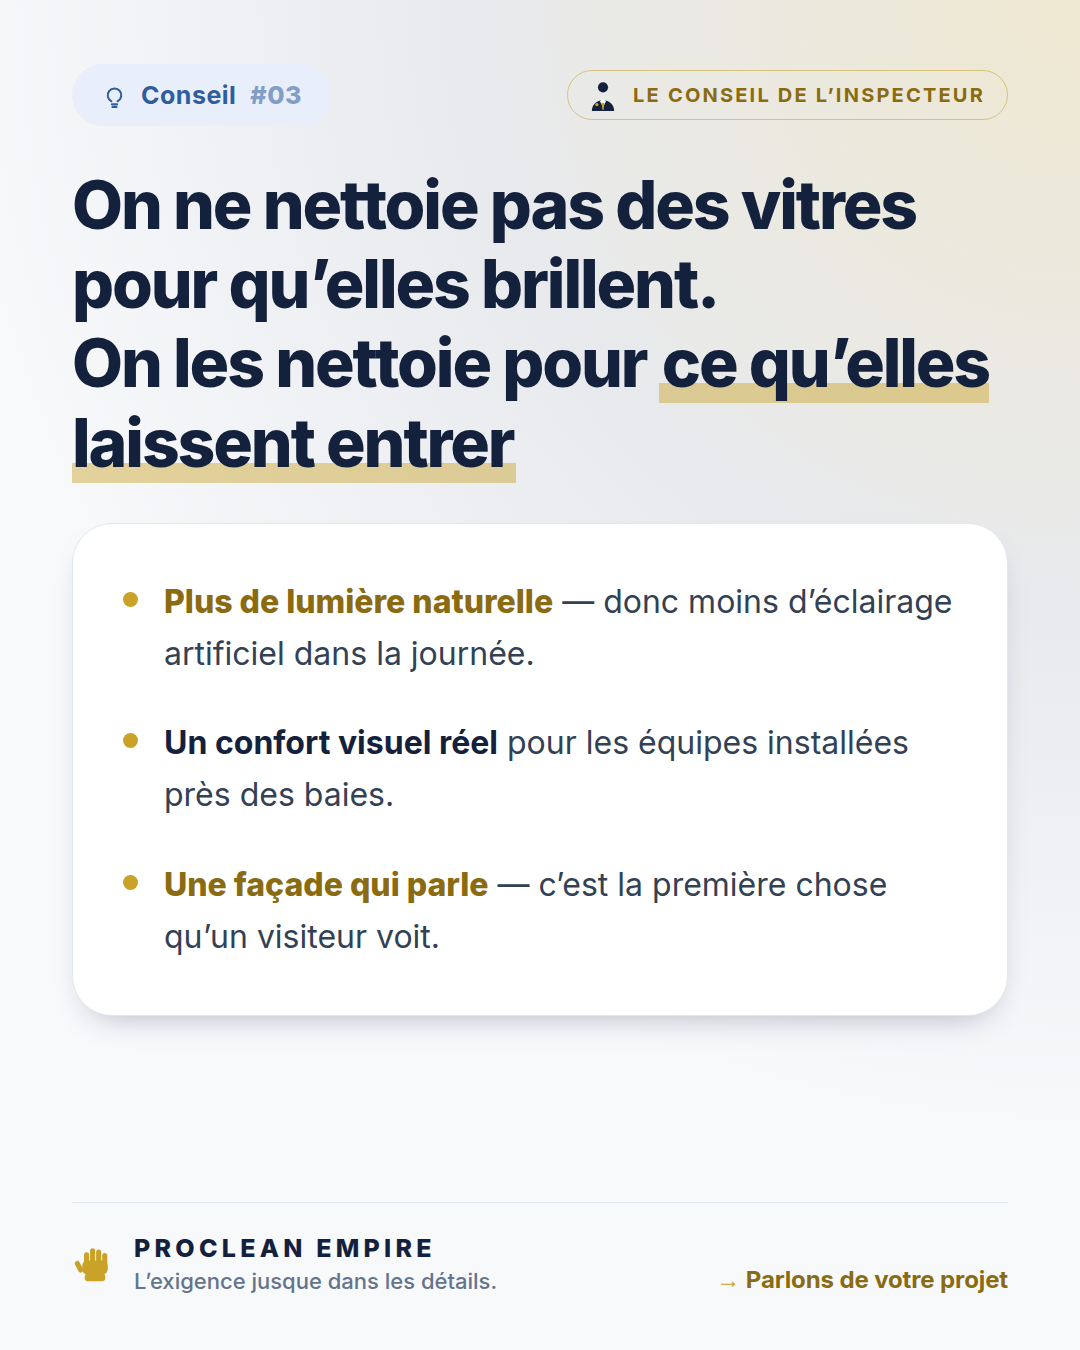
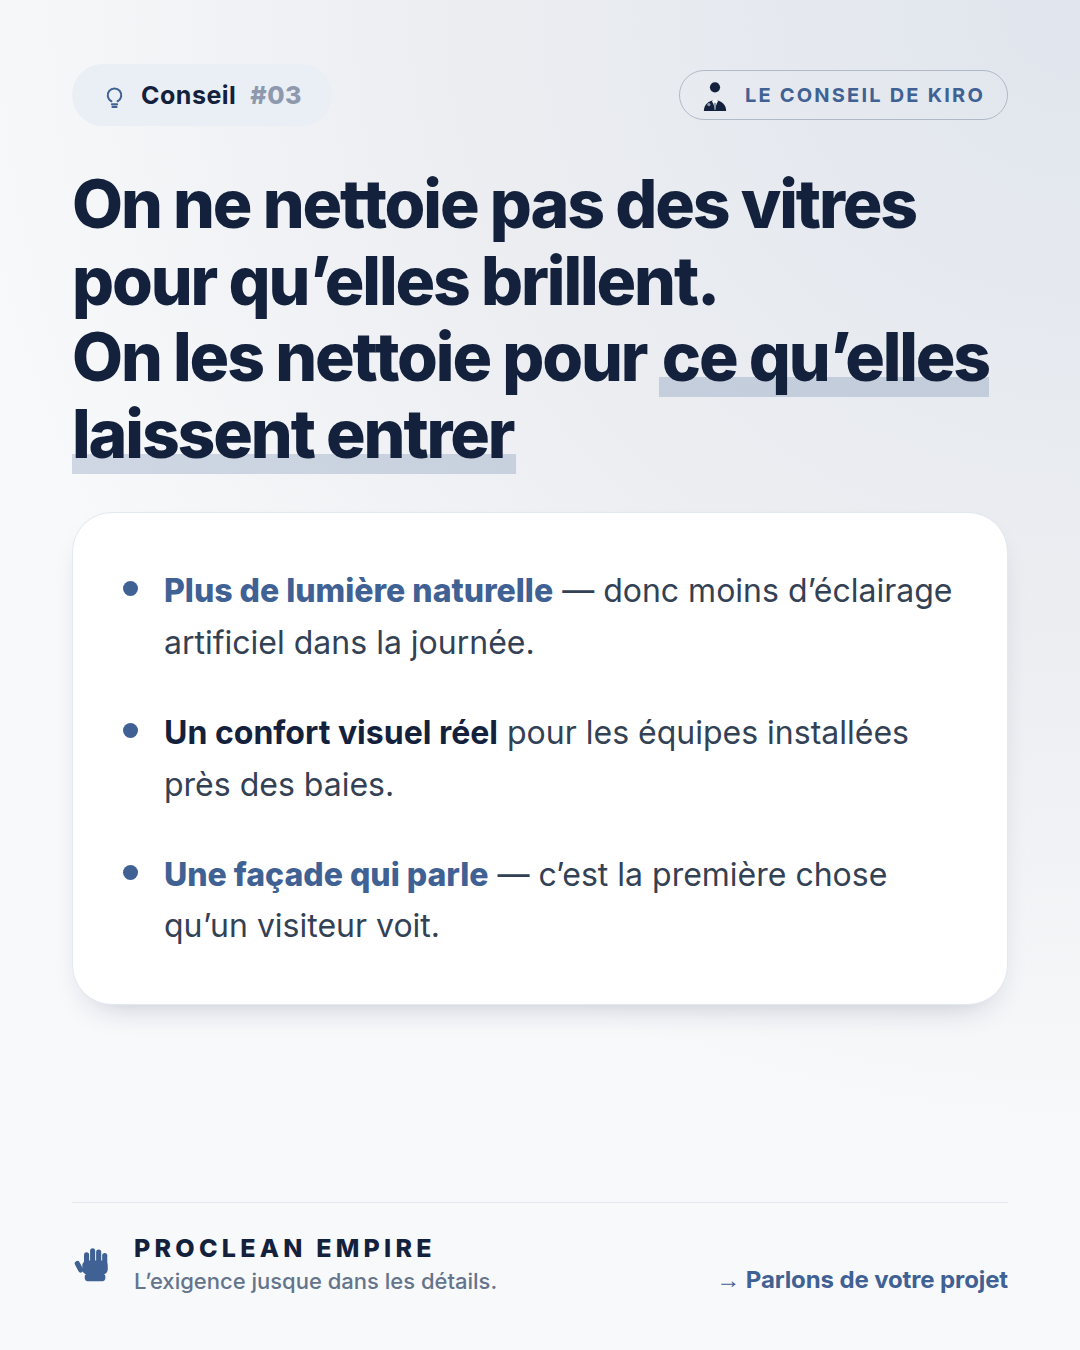
Move the social identity to a steel and silver palette
Art direction now rules out warm accents: navy, light grey and white only,
with steel blue and metallic grey carrying emphasis. Gold is gone from
every seal, rule, figure, highlight and CTA.

That removes the basis for the five-colour collection code, so the badge
takes a single treatment and the collection is read from its icon and
name instead - five near-identical blues would have been noise, and the
brief asks for one identity recognisable in under a second.

Seals adopt the character's rubrics: Le conseil de Kiro, Kiro explique,
Kiro valide, L'oeil de Kiro, Mission de Kiro.

Type sizes and leading go up again to match the requested white space.

Note: tailwind.config.ts still sets accent #c9a227 for the website, so
site and social now diverge until one of them is realigned.

Claude-Session: https://claude.ai/code/session_01Mxdu93gp3qUqySFn8KFPEm

diff --git a/docs/reseaux-sociaux/visuels/visuels.html b/docs/reseaux-sociaux/visuels/visuels.html
@@ -12,19 +12,13 @@
   :root {
     --ground: #f8f9fb;
     --navy: #14213d;
+    --steel: #3f6193;          /* bleu acier — accent unique */
+    --steel-wash: #eaeff6;
+    --silver: #8e99ad;         /* gris métallisé */
     --slate: #334155;
     --slate-soft: #64748b;
     --line: #e2e8f0;
-    --gold: #c9a227;
-    --gold-ink: #8a6b12;
-    --shadow: 0 15px 35px -20px rgba(12, 27, 64, .4);
-
-    /* Code couleur par collection */
-    --c-conseil:   #2f5d9e;   --c-conseil-bg:   #e8effa;
-    --c-savoir:    #a8801a;   --c-savoir-bg:    #fbf3dc;
-    --c-avis:      #2b7a55;   --c-avis-bg:      #e5f4ec;
-    --c-preuve:    #a4453c;   --c-preuve-bg:    #fbeae8;
-    --c-coulisses: #14213d;   --c-coulisses-bg: #e6eaf1;
+    --shadow: 0 15px 35px -20px rgba(12, 27, 64, .32);
   }
 
   * { margin: 0; padding: 0; box-sizing: border-box; }
@@ -34,7 +28,7 @@
   .glow {
     position: absolute; inset: 0;
     background: radial-gradient(circle at top right,
-      rgba(201,162,39,.20), rgba(20,33,61,.07) 36%, transparent 66%);
+      rgba(63,97,147,.13), rgba(20,33,61,.05) 38%, transparent 66%);
   }
   .stage { position: relative; z-index: 1; height: 100%; display: flex; flex-direction: column; }
 
@@ -45,18 +39,15 @@
     border-radius: 999px; padding: 16px 30px;
     font-size: 25px; font-weight: 700; letter-spacing: .02em;
   }
-  .badge .num { font-weight: 800; opacity: .55; }
-  .badge.conseil   { background: var(--c-conseil-bg);   color: var(--c-conseil); }
-  .badge.savoir    { background: var(--c-savoir-bg);    color: var(--c-savoir); }
-  .badge.avis      { background: var(--c-avis-bg);      color: var(--c-avis); }
-  .badge.preuve    { background: var(--c-preuve-bg);    color: var(--c-preuve); }
-  .badge.coulisses { background: var(--c-coulisses-bg); color: var(--c-coulisses); }
+  .badge { background: var(--steel-wash); color: var(--navy); }
+  .badge .num { font-weight: 800; color: var(--silver); }
+  .badge .ico { color: var(--steel); }
 
   .seal {
     display: inline-flex; align-items: center; gap: 11px;
-    border: 1.5px solid rgba(201,162,39,.55); border-radius: 999px;
+    border: 1.5px solid rgba(142,153,173,.6); border-radius: 999px;
     padding: 12px 22px; font-size: 20px; font-weight: 700;
-    letter-spacing: .11em; text-transform: uppercase; color: var(--gold-ink);
+    letter-spacing: .11em; text-transform: uppercase; color: var(--steel);
     white-space: nowrap;
   }
   .seal svg { display: block; }
@@ -70,52 +61,52 @@
   .foot .mark { display: block; flex: 0 0 auto; }
   .foot .name { font-size: 25px; font-weight: 800; letter-spacing: .17em; color: var(--navy); }
   .foot .base { margin-top: 5px; font-size: 22px; font-weight: 500; color: var(--slate-soft); }
-  .foot .cta { font-size: 24px; font-weight: 700; color: var(--gold-ink); white-space: nowrap; }
-  .foot .cta i { font-style: normal; color: var(--gold); }
+  .foot .cta { font-size: 24px; font-weight: 700; color: var(--steel); white-space: nowrap; }
+  .foot .cta i { font-style: normal; color: var(--steel); }
 
   /* ---- blocs communs ---- */
   .panel { background: #fff; border: 1px solid var(--line); border-radius: 40px; box-shadow: var(--shadow); }
   h1 { font-weight: 800; letter-spacing: -.032em; color: var(--navy); }
   .sub { color: var(--slate); }
-  .hl { background-image: linear-gradient(to top, rgba(201,162,39,.45) 20px, rgba(0,0,0,0) 20px); padding: 0 3px; }
+  .hl { background-image: linear-gradient(to top, rgba(63,97,147,.22) 20px, rgba(0,0,0,0) 20px); padding: 0 3px; }
 
   /* ============ PORTRAIT 1080×1350 ============ */
   .p { width: 1080px; height: 1350px; }
   .p .stage { padding: 64px 72px 56px; }
   .p .top { margin-bottom: 40px; }
-  .p h1 { font-size: 70px; line-height: 1.2; }
+  .p h1 { font-size: 74px; line-height: 1.16; }
   .p .shot { margin-top: 38px; padding: 18px; border-radius: 44px; position: relative; }
   .p .shot img { width: 100%; height: 740px; object-fit: cover; border-radius: 30px; display: block; }
-  .p .sub { margin-top: 32px; font-size: 30px; line-height: 1.62; }
+  .p .sub { margin-top: 34px; font-size: 31px; line-height: 1.68; }
   .p .tagimg {
     position: absolute; left: 42px; top: 42px;
     font-size: 21px; font-weight: 800; letter-spacing: .15em;
     padding: 13px 24px; border-radius: 999px;
   }
   .p .tagimg.a { background: rgba(255,255,255,.94); color: var(--navy); }
-  .p .tagimg.b { background: var(--gold); color: var(--navy); }
+  .p .tagimg.b { background: var(--navy); color: #fff; }
 
   /* ============ CARRÉ 1080×1080 ============ */
   .s { width: 1080px; height: 1080px; }
   .s .stage { padding: 60px 66px 52px; }
   .s .top { margin-bottom: 0; }
   .s .panel { margin: 40px 0; flex: 1; padding: 62px 58px; display: flex; flex-direction: column; align-items: center; justify-content: center; text-align: center; }
-  .s h1 { font-size: 74px; line-height: 1.08; }
-  .s .dash { width: 88px; height: 5px; background: var(--gold); border-radius: 3px; margin: 38px 0; }
-  .s p { font-size: 39px; line-height: 1.58; color: var(--slate); max-width: 800px; }
+  .s h1 { font-size: 80px; line-height: 1.06; }
+  .s .dash { width: 88px; height: 5px; background: var(--steel); border-radius: 3px; margin: 38px 0; }
+  .s p { font-size: 40px; line-height: 1.62; color: var(--slate); max-width: 800px; }
   .s p b { font-weight: 700; color: var(--navy); }
 
   /* --- variantes --- */
   #v1 h1 { font-size: 72px; }
   #v1 .shot img { height: 520px; }
 
-  #v5 .big { font-size: 216px; font-weight: 800; line-height: .92; letter-spacing: -.055em; color: var(--gold); }
+  #v5 .big { font-size: 216px; font-weight: 800; line-height: .92; letter-spacing: -.055em; color: var(--steel); }
   #v5 .big em { font-style: normal; color: var(--navy); }
 
   #v6 h1 { font-size: 66px; }
   #v6 .list { margin-top: 40px; padding: 52px 50px; display: flex; flex-direction: column; gap: 38px; }
   #v6 .row { display: flex; align-items: flex-start; gap: 26px; }
-  #v6 .row .dot { flex: 0 0 auto; width: 15px; height: 15px; border-radius: 50%; background: var(--gold); margin-top: 16px; }
+  #v6 .row .dot { flex: 0 0 auto; width: 15px; height: 15px; border-radius: 50%; background: var(--steel); margin-top: 16px; }
   #v6 .row .tx { font-size: 32px; line-height: 1.62; color: var(--slate); }
   #v6 .row .tx b { font-weight: 700; color: var(--navy); }
 
@@ -124,7 +115,7 @@
     background: var(--ground); border: 1px solid var(--line); border-radius: 26px;
     padding: 34px 32px; display: flex; align-items: center; gap: 20px;
   }
-  #v7 .cell .dot { width: 14px; height: 14px; border-radius: 50%; background: var(--gold); }
+  #v7 .cell .dot { width: 14px; height: 14px; border-radius: 50%; background: var(--steel); }
   #v7 .cell .n { font-size: 33px; font-weight: 700; letter-spacing: .04em; color: var(--navy); }
   #v7 .kicker { margin-top: 42px; font-size: 44px; font-weight: 800; letter-spacing: -.03em; color: var(--navy); }
 
@@ -134,7 +125,7 @@
   #v3 .who { margin-top: 44px; font-size: 29px; font-weight: 700; color: var(--navy); }
   #v3 .src { margin-top: 8px; font-size: 25px; font-weight: 500; color: var(--slate-soft); }
   #v3 .score { margin-top: 42px; padding-top: 38px; border-top: 1px solid var(--line); display: flex; align-items: baseline; gap: 18px; }
-  #v3 .score .n { font-size: 74px; font-weight: 800; letter-spacing: -.04em; color: var(--gold); }
+  #v3 .score .n { font-size: 74px; font-weight: 800; letter-spacing: -.04em; color: var(--steel); }
   #v3 .score .l { font-size: 28px; font-weight: 500; color: var(--slate); }
 
   #v4 .shot { display: flex; gap: 14px; padding: 16px; }
@@ -151,20 +142,20 @@
   #v10 .shotwrap img { width: 100%; height: 100%; object-fit: cover; object-position: center 20%; display: block; }
   #v10 .top { position: absolute; left: 66px; right: 66px; top: 60px; z-index: 2; }
   #v10 .seal { border-color: rgba(255,255,255,.6); color: #fff; background: rgba(20,33,61,.42); }
-  #v10 .seal .gant { color: #c9a227; }
+  #v10 .seal .gant { color: #3f6193; }
   #v10 .plate { flex: 1; background: var(--navy); padding: 56px 72px 52px; display: flex; flex-direction: column; }
   #v10 .plate h1 { color: #fff; font-size: 58px; line-height: 1.2; }
-  #v10 .plate .sig { margin-top: 22px; font-size: 28px; font-weight: 600; color: var(--gold); }
+  #v10 .plate .sig { margin-top: 22px; font-size: 28px; font-weight: 600; color: var(--steel); }
   #v10 .foot { border-top-color: rgba(255,255,255,.18); }
   #v10 .foot .name { color: #fff; }
   #v10 .foot .base { color: #94a3b8; }
-  #v10 .foot .cta { color: var(--gold); }
+  #v10 .foot .cta { color: var(--steel); }
 
   .badge .ico { width: 25px; height: 25px; flex: 0 0 auto; }
   .seal .ico { width: 19px; height: 19px; flex: 0 0 auto; }
-  .seal .gant { width: 27px; height: 27px; flex: 0 0 auto; color: var(--gold-ink); margin-left: -3px; }
+  .seal .gant { width: 27px; height: 27px; flex: 0 0 auto; color: var(--steel); margin-left: -3px; }
   .seal .inspecteur { width: 34px; height: 34px; flex: 0 0 auto; color: var(--navy); margin: -6px 2px -6px -4px; }
-  .key, #v6 .row .tx b.key, .s p b.key { color: var(--gold-ink); font-weight: 800; }
+  .key, #v6 .row .tx b.key, .s p b.key { color: var(--steel); font-weight: 800; }
   .foot .cta { letter-spacing: -.005em; }
 </style>
 </head>
@@ -208,8 +199,8 @@
     <circle cx="32" cy="17.5" r="9.6" fill="currentColor"/>
     <path d="M11 62c0-11.6 9.4-20 21-20s21 8.4 21 20z" fill="currentColor"/>
     <path d="M26.2 43.4L32 55l5.8-11.6-5.8-3.2z" fill="#ffffff"/>
-    <path d="M32 45.6l-2.6 2.4 1.5 12.4h2.2l1.5-12.4z" fill="#c9a227"/>
-    <circle cx="20.5" cy="50" r="3.1" fill="#c9a227"/>
+    <path d="M32 45.6l-2.6 2.4 1.5 12.4h2.2l1.5-12.4z" fill="#8e99ad"/>
+    <circle cx="20.5" cy="50" r="3.1" fill="#8e99ad"/>
   </symbol>
 </defs></svg>
 
@@ -219,7 +210,7 @@
   <div class="stage">
     <div class="top">
       <span class="badge conseil"><svg class="ico"><use href="#i-bulb"/></svg>Conseil <span class="num">#01</span></span>
-      <span class="seal"><svg class="inspecteur"><use href="#inspecteur"/></svg>Le conseil de l’Inspecteur</span></div>
+      <span class="seal"><svg class="inspecteur"><use href="#inspecteur"/></svg>Le conseil de Kiro</span></div>
     <h1>Un bureau propre n&rsquo;est pas un détail.<br>C&rsquo;est un <span class="hl">levier</span></h1>
     <div class="panel shot">
       <img src="../../../../../home/user/https-procleanempire-multiservice.manus.space/public/media/photos/hero-showcase.jpg" alt="">
@@ -227,7 +218,7 @@
     <p class="sub">Concentration, image de marque, bien-être des équipes : tout commence par un environnement maîtrisé.</p>
     <div class="foot">
       <div class="left">
-        <svg class="mark" width="44" height="44" style="color:#c9a227"><use href="#gant"/></svg>
+        <svg class="mark" width="44" height="44" style="color:#3f6193"><use href="#gant"/></svg>
         <div><div class="name">PROCLEAN EMPIRE</div><div class="base">L&rsquo;exigence jusque dans les détails.</div></div>
       </div>
       <span class="cta"><i>&rarr;</i> Parlons de votre projet</span>
@@ -241,7 +232,7 @@
   <div class="stage">
     <div class="top">
       <span class="badge preuve"><svg class="ico"><use href="#i-swap"/></svg>Avant / Après <span class="num">#01</span></span>
-      <span class="seal"><svg class="gant"><use href="#gant"/></svg>Inspection validée</span></div>
+      <span class="seal"><svg class="gant"><use href="#gant"/></svg>Kiro valide</span></div>
     <h1>Le remplacement était envisagé.<br>Il n&rsquo;a pas été nécessaire</h1>
     <div class="panel shot">
       <div class="half">
@@ -255,7 +246,7 @@
     </div>
     <div class="foot">
       <div class="left">
-        <svg class="mark" width="44" height="44" style="color:#c9a227"><use href="#gant"/></svg>
+        <svg class="mark" width="44" height="44" style="color:#3f6193"><use href="#gant"/></svg>
         <div><div class="name">PROCLEAN EMPIRE</div><div class="base">L&rsquo;exigence jusque dans les détails.</div></div>
       </div>
       <span class="cta"><i>&rarr;</i> Découvrez nos réalisations</span>
@@ -269,7 +260,7 @@
   <div class="stage">
     <div class="top">
       <span class="badge savoir"><svg class="ico"><use href="#i-flask"/></svg>Le saviez-vous <span class="num">#01</span></span>
-      <span class="seal"><svg class="inspecteur"><use href="#inspecteur"/></svg>Le saviez-vous ?</span></div>
+      <span class="seal"><svg class="inspecteur"><use href="#inspecteur"/></svg>Kiro explique</span></div>
     <div class="panel">
       <h1>Le saviez-vous&nbsp;?</h1>
       <div class="dash"></div>
@@ -277,7 +268,7 @@
     </div>
     <div class="foot">
       <div class="left">
-        <svg class="mark" width="44" height="44" style="color:#c9a227"><use href="#gant"/></svg>
+        <svg class="mark" width="44" height="44" style="color:#3f6193"><use href="#gant"/></svg>
         <div><div class="name">PROCLEAN EMPIRE</div><div class="base">L&rsquo;exigence jusque dans les détails.</div></div>
       </div>
       <span class="cta"><i>&rarr;</i> Obtenez votre devis en 24 h</span>
@@ -291,7 +282,7 @@
   <div class="stage">
     <div class="top">
       <span class="badge conseil"><svg class="ico"><use href="#i-bulb"/></svg>Conseil <span class="num">#02</span></span>
-      <span class="seal"><svg class="inspecteur"><use href="#inspecteur"/></svg>Le conseil de l’Inspecteur</span></div>
+      <span class="seal"><svg class="inspecteur"><use href="#inspecteur"/></svg>Le conseil de Kiro</span></div>
     <div class="panel">
       <div class="big">30<em>&nbsp;s</em></div>
       <div class="dash"></div>
@@ -299,7 +290,7 @@
     </div>
     <div class="foot">
       <div class="left">
-        <svg class="mark" width="44" height="44" style="color:#c9a227"><use href="#gant"/></svg>
+        <svg class="mark" width="44" height="44" style="color:#3f6193"><use href="#gant"/></svg>
         <div><div class="name">PROCLEAN EMPIRE</div><div class="base">L&rsquo;exigence jusque dans les détails.</div></div>
       </div>
       <span class="cta"><i>&rarr;</i> Contactez un expert ProClean</span>
@@ -313,7 +304,7 @@
   <div class="stage">
     <div class="top">
       <span class="badge conseil"><svg class="ico"><use href="#i-bulb"/></svg>Conseil <span class="num">#03</span></span>
-      <span class="seal"><svg class="inspecteur"><use href="#inspecteur"/></svg>Le conseil de l’Inspecteur</span></div>
+      <span class="seal"><svg class="inspecteur"><use href="#inspecteur"/></svg>Le conseil de Kiro</span></div>
     <h1>On ne nettoie pas des vitres pour qu&rsquo;elles brillent.<br>On les nettoie pour <span class="hl">ce qu&rsquo;elles laissent entrer</span></h1>
     <div class="panel list">
       <div class="row"><span class="dot"></span><span class="tx"><b class="key">Plus de lumière naturelle</b> — donc moins d&rsquo;éclairage artificiel dans la journée.</span></div>
@@ -322,7 +313,7 @@
     </div>
     <div class="foot">
       <div class="left">
-        <svg class="mark" width="44" height="44" style="color:#c9a227"><use href="#gant"/></svg>
+        <svg class="mark" width="44" height="44" style="color:#3f6193"><use href="#gant"/></svg>
         <div><div class="name">PROCLEAN EMPIRE</div><div class="base">L&rsquo;exigence jusque dans les détails.</div></div>
       </div>
       <span class="cta"><i>&rarr;</i> Parlons de votre projet</span>
@@ -336,7 +327,7 @@
   <div class="stage">
     <div class="top">
       <span class="badge conseil"><svg class="ico"><use href="#i-bulb"/></svg>Conseil <span class="num">#04</span></span>
-      <span class="seal"><svg class="inspecteur"><use href="#inspecteur"/></svg>L’œil de l’Inspecteur</span></div>
+      <span class="seal"><svg class="inspecteur"><use href="#inspecteur"/></svg>L’œil de Kiro</span></div>
     <div class="panel">
       <div class="grid">
         <div class="cell"><span class="dot"></span><span class="n">CUIR</span></div>
@@ -348,7 +339,7 @@
     </div>
     <div class="foot">
       <div class="left">
-        <svg class="mark" width="44" height="44" style="color:#c9a227"><use href="#gant"/></svg>
+        <svg class="mark" width="44" height="44" style="color:#3f6193"><use href="#gant"/></svg>
         <div><div class="name">PROCLEAN EMPIRE</div><div class="base">L&rsquo;exigence jusque dans les détails.</div></div>
       </div>
       <span class="cta"><i>&rarr;</i> Obtenez votre devis en 24 h</span>
@@ -362,14 +353,14 @@
   <div class="stage">
     <div class="top">
       <span class="badge avis"><svg class="ico"><use href="#i-star"/></svg>Paroles de clients <span class="num">#01</span></span>
-      <span class="seal"><svg class="inspecteur"><use href="#inspecteur"/></svg>Retour client vérifié</span></div>
+      <span class="seal"><svg class="inspecteur"><use href="#inspecteur"/></svg>Kiro valide</span></div>
     <div class="panel">
       <div class="stars">
-        <svg width="52" height="52" viewBox="0 0 24 24" fill="#c9a227"><path d="M12 2.4l2.9 5.9 6.5.9-4.7 4.6 1.1 6.5-5.8-3-5.8 3 1.1-6.5L2.6 9.2l6.5-.9z"/></svg>
-        <svg width="52" height="52" viewBox="0 0 24 24" fill="#c9a227"><path d="M12 2.4l2.9 5.9 6.5.9-4.7 4.6 1.1 6.5-5.8-3-5.8 3 1.1-6.5L2.6 9.2l6.5-.9z"/></svg>
-        <svg width="52" height="52" viewBox="0 0 24 24" fill="#c9a227"><path d="M12 2.4l2.9 5.9 6.5.9-4.7 4.6 1.1 6.5-5.8-3-5.8 3 1.1-6.5L2.6 9.2l6.5-.9z"/></svg>
-        <svg width="52" height="52" viewBox="0 0 24 24" fill="#c9a227"><path d="M12 2.4l2.9 5.9 6.5.9-4.7 4.6 1.1 6.5-5.8-3-5.8 3 1.1-6.5L2.6 9.2l6.5-.9z"/></svg>
-        <svg width="52" height="52" viewBox="0 0 24 24" fill="#c9a227"><path d="M12 2.4l2.9 5.9 6.5.9-4.7 4.6 1.1 6.5-5.8-3-5.8 3 1.1-6.5L2.6 9.2l6.5-.9z"/></svg>
+        <svg width="52" height="52" viewBox="0 0 24 24" fill="#3f6193"><path d="M12 2.4l2.9 5.9 6.5.9-4.7 4.6 1.1 6.5-5.8-3-5.8 3 1.1-6.5L2.6 9.2l6.5-.9z"/></svg>
+        <svg width="52" height="52" viewBox="0 0 24 24" fill="#3f6193"><path d="M12 2.4l2.9 5.9 6.5.9-4.7 4.6 1.1 6.5-5.8-3-5.8 3 1.1-6.5L2.6 9.2l6.5-.9z"/></svg>
+        <svg width="52" height="52" viewBox="0 0 24 24" fill="#3f6193"><path d="M12 2.4l2.9 5.9 6.5.9-4.7 4.6 1.1 6.5-5.8-3-5.8 3 1.1-6.5L2.6 9.2l6.5-.9z"/></svg>
+        <svg width="52" height="52" viewBox="0 0 24 24" fill="#3f6193"><path d="M12 2.4l2.9 5.9 6.5.9-4.7 4.6 1.1 6.5-5.8-3-5.8 3 1.1-6.5L2.6 9.2l6.5-.9z"/></svg>
+        <svg width="52" height="52" viewBox="0 0 24 24" fill="#3f6193"><path d="M12 2.4l2.9 5.9 6.5.9-4.7 4.6 1.1 6.5-5.8-3-5.8 3 1.1-6.5L2.6 9.2l6.5-.9z"/></svg>
       </div>
       <div class="quote">&laquo;&nbsp;Service sérieux, équipe professionnelle et résultat impeccable à chaque intervention.&nbsp;&raquo;</div>
       <div class="who">Concierg&rsquo;air</div>
@@ -378,7 +369,7 @@
     </div>
     <div class="foot">
       <div class="left">
-        <svg class="mark" width="44" height="44" style="color:#c9a227"><use href="#gant"/></svg>
+        <svg class="mark" width="44" height="44" style="color:#3f6193"><use href="#gant"/></svg>
         <div><div class="name">PROCLEAN EMPIRE</div><div class="base">L&rsquo;exigence jusque dans les détails.</div></div>
       </div>
       <span class="cta"><i>&rarr;</i> Contactez un expert ProClean</span>
@@ -392,7 +383,7 @@
   <div class="stage">
     <div class="top">
       <span class="badge preuve"><svg class="ico"><use href="#i-pin"/></svg>Réalisation <span class="num">#01</span></span>
-      <span class="seal"><svg class="gant"><use href="#gant"/></svg>Inspection validée</span></div>
+      <span class="seal"><svg class="gant"><use href="#gant"/></svg>Mission de Kiro</span></div>
     <h1>Ce n&rsquo;est pas une banquette neuve.<br>C&rsquo;est la même</h1>
     <div class="panel shot">
       <img src="../../../../../home/user/https-procleanempire-multiservice.manus.space/public/media/photos/banquette-arriere-apres.jpeg" alt="">
@@ -400,7 +391,7 @@
     </div>
     <div class="foot">
       <div class="left">
-        <svg class="mark" width="44" height="44" style="color:#c9a227"><use href="#gant"/></svg>
+        <svg class="mark" width="44" height="44" style="color:#3f6193"><use href="#gant"/></svg>
         <div><div class="name">PROCLEAN EMPIRE</div><div class="base">L&rsquo;exigence jusque dans les détails.</div></div>
       </div>
       <span class="cta"><i>&rarr;</i> Découvrez nos réalisations</span>
@@ -414,14 +405,14 @@
   <div class="stage">
     <div class="top">
       <span class="badge preuve"><svg class="ico"><use href="#i-pin"/></svg>Réalisation <span class="num">#02</span></span>
-      <span class="seal"><svg class="gant"><use href="#gant"/></svg>L’œil de l’Inspecteur</span></div>
+      <span class="seal"><svg class="gant"><use href="#gant"/></svg>Mission de Kiro</span></div>
     <h1>On ne nettoie pas un avion comme une voiture</h1>
     <div class="panel shot">
       <img src="../../../../../home/user/https-procleanempire-multiservice.manus.space/public/media/photos/nettoyage-avion-cessna.jpeg" alt="">
     </div>
     <div class="foot">
       <div class="left">
-        <svg class="mark" width="44" height="44" style="color:#c9a227"><use href="#gant"/></svg>
+        <svg class="mark" width="44" height="44" style="color:#3f6193"><use href="#gant"/></svg>
         <div><div class="name">PROCLEAN EMPIRE</div><div class="base">L&rsquo;exigence jusque dans les détails.</div></div>
       </div>
       <span class="cta"><i>&rarr;</i> Découvrez nos réalisations</span>
@@ -443,7 +434,7 @@
       <div class="sig">Kevin H. — Fondateur</div>
       <div class="foot">
         <div class="left">
-          <svg class="mark" width="44" height="44" style="color:#c9a227"><use href="#gant"/></svg>
+          <svg class="mark" width="44" height="44" style="color:#3f6193"><use href="#gant"/></svg>
           <div><div class="name">PROCLEAN EMPIRE</div><div class="base">L&rsquo;exigence jusque dans les détails.</div></div>
         </div>
         <span class="cta"><i>&rarr;</i> Parlons de votre projet</span>
